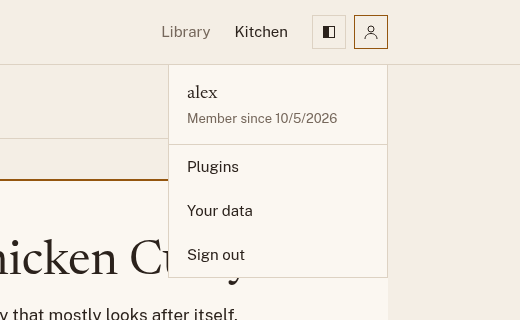
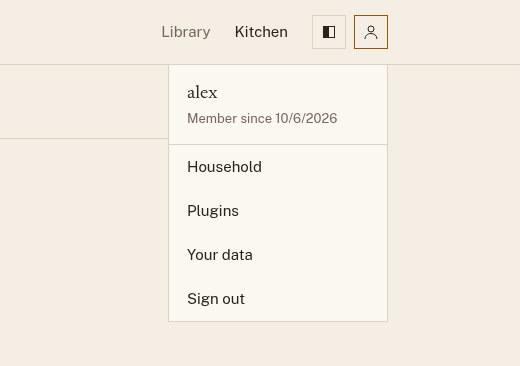
docs: explain households in the guide, and record step 2 in AGENTS.md
A Household page in the user guide covers what is shared, inviting,
joining, and leaving, with a screenshot; the recipe, data, agent, and
getting-started pages and the profile menu screenshot follow. AGENTS.md
records what step 2 delivered, the household package's boundary, the 409
and 410 mappings, and the import rule.

diff --git a/AGENTS.md b/AGENTS.md
@@ -47,9 +47,9 @@ change** — an out-of-date AGENTS.md is worse than none.
 | Sync       | intervals.icu is the activity data source (future). Design for it, don't build it yet. |
 | Library content | Seed file `core/core-recipes/src/main/resources/library/library-seed.json`, loaded by an idempotent startup seeder (`mimos.library.seed-enabled`, default on). Content fixes ship with a restart; never via Flyway migrations. See ADR-0005. |
 | Ingredient catalog | One shared catalog seeded read-only from `core/core-recipes/src/main/resources/library/ingredient-seed.json` (always on, by slug, never deleted), plus each household's own ingredients, private to it and editable (`/api/v1/ingredients`, ADR-0016, ADR-0019). Recipe lines link to either by `catalogSlug` and carry prep in an optional `note`; the form's ingredient name is a search over both and the user's own recipes. A line may instead link one of its owner's own recipes (`recipeId`, never both, never itself or a cycle), counted in `servings` of it (ADR-0018). A recipe's `nutritionSource` is `MANUAL` (typed) or `INGREDIENTS` (calculated when read, so catalog fixes and edits to a linked recipe reach every recipe that uses them). Metric units only: `g`, `kg`, `ml`, `l`, `tsp` (5 ml), `tbsp` (15 ml), or none for pieces, plus `servings` for a recipe link. Library recipes are calculated and link no recipes. See ADR-0015, ADR-0016, ADR-0018. |
-| Households | Every user belongs to exactly one household; a user on their own is a household of one. The household owns recipes, personal ingredients, plans, shopping lists, and plugin opt-ins and pseudonyms; meal logs stay per person. Plan entries name their diners. Membership is Mimos domain data, not Keycloak groups. Being delivered in four steps (ROADMAP step 17); step 1 is in: every profile has a household (`household`, `user_profile.household_id`; a new user gets a household of one with their profile), household-owned tables carry `household_id`, recipes record `created_by_profile_id`, and every plan entry has diners (`meal_plan_entry_diner`; the API adds the caller as the only one). Invites, joining and leaving, diners in the API, and export version 4 are not built yet. See ADR-0019. |
+| Households | Every user belongs to exactly one household; a user on their own is a household of one. The household owns recipes, personal ingredients, plans, shopping lists, and plugin opt-ins and pseudonyms; meal logs stay per person. Plan entries name their diners. Membership is Mimos domain data, not Keycloak groups. Being delivered in four steps (ROADMAP step 17); steps 1 and 2 are in. Every profile has a household (`household`, `user_profile.household_id`; a new user gets a household of one with their profile), household-owned tables carry `household_id`, recipes record `created_by_profile_id` (shown as `createdBy`, "Added by" in the web), and every plan entry has diners (`meal_plan_entry_diner`; the API adds the caller as the only one). Any member creates a single-use invite valid for seven days (`household_invite`, SHA-256 of the token only; the web link is `/app/join/{token}`); joining from a household of one brings its recipes and ingredients and deletes its plans, lists, plugin opt-ins and pseudonyms; joining from a shared household leaves it first; leaving keeps the household's data, removes the leaver as a diner (deleting entries left with none), and unlinks their logs from its recipes. API under `/api/v1/household`; join, leave, and the invite preview are `x-mcp: false`. Web: the Household page (`/app/household`, in the profile menu) and `/app/join/[token]`. Diners in the API and export version 4 are not built yet. See ADR-0019. |
 | Public API | Unauthenticated read-only access to the curated library under `/api/v1/public/**` (SEO pages). Personal recipes never appear there; everything else requires a bearer token. |
-| Account data | Per-user export/import as one versioned JSON document (`GET /api/v1/account/export`, `POST /api/v1/account/import`): domain-shaped, never a table dump; library recipes by slug; recipe links by the linked recipe's id within the document, restored linked-first; import only into an empty account, atomically, through domain validation. Current format: version 3. Format changes bump the version, add an `ExportUpgrader` step and a frozen `export/v<N>.json` test fixture. See ADR-0011, ADR-0018. |
+| Account data | Per-user export/import as one versioned JSON document (`GET /api/v1/account/export`, `POST /api/v1/account/import`): domain-shaped, never a table dump; library recipes by slug; recipe links by the linked recipe's id within the document, restored linked-first; import only into an empty household of one (no recipes, own ingredients, planned meals, list items, or logs, and no other member; 409 otherwise), atomically, through domain validation. Current format: version 3. Format changes bump the version, add an `ExportUpgrader` step and a frozen `export/v<N>.json` test fixture. See ADR-0011, ADR-0018. |
 | Plugins    | HTTP sidecar plugins, pull-only in v1: config registry (`mimos.plugins.*`), manifest at `GET /manifest`, two capabilities (`plan-suggestions` cards, `week-panel` declarative panels with buttons), library-only context, households named by a per-plugin pseudonym (`subject`) the plugin may keep its own data against. See ADR-0006, ADR-0017. Registered means available; each household opts in from the Plugins page (`/app/plugins`, linked from the profile menu; API `/api/v1/me/plugins`), and every plugin starts off. See ADR-0013. |
 | Agent access | MCP server inside `mimos-api` at `/mcp` (Spring AI 2.0.x MCP server starter, stateless Streamable HTTP; Spring AI's model layer excluded). Tools are derived from `contracts/api/openapi.yaml` at startup: every `/api/v1` operation is a tool unless it declares `x-mcp: false`, and a call loops back through the HTTP API with the caller's token. Agents sign in as the public Keycloak client `mimos-agent` (Authorization Code + PKCE), found through Protected Resource Metadata (RFC 9728). See ADR-0014. |
 | Agent harness | `tools/harness` (`@mimos/harness`, TypeScript on Node type stripping) behind a devenv `harness` script; all agent tooling from devenv/nixpkgs; Playwright pinned to nixpkgs' `playwright-driver`; `.mcp.json` committed; debug-only behavior in `deploy/docker/compose.debug.yml`; scenarios run in CI via devenv. Plan and decisions in `docs/harness/`. |
@@ -82,6 +82,15 @@ wire-format contract:
   ingredients, plans, and shopping lists take an opaque `ownerId`, which
   the API sets to the caller's household id; meal logs, recipe creators,
   and plan-entry diners take profile ids.
+- `apps/api` package `household` — membership, invites, and the join
+  and leave rules (ADR-0019). Owns `household_invite` and
+  `user_profile.household_id`, and creates and deletes `household` rows
+  after sign-up (`identity` creates a new user's household of one). It
+  changes what a household owns in other modules only through their
+  public services (`moveAll`, `deleteAll`, `removeDiner`,
+  `unlinkRecipesOf`), never their tables, and runs a join or leave in one
+  transaction that locks the caller's profile row, then the households
+  involved in id order.
 - `apps/api` package `account` — account export/import (ADR-0011): an
   adapter over the core modules' public services, like the controllers.
   It never touches tables, so a migration that keeps the domain's meaning
@@ -240,7 +249,7 @@ is the contract:
 - Security failures (401/403) are RFC 9457 problem-details, as are API errors
   generally. Domain errors map once in `ApiExceptionHandler`:
   `IllegalArgumentException` → 400, `NoSuchElementException` → 404,
-  `ReadOnlyRecipeException` and `ReadOnlyIngredientException` → 403, `AccountNotEmptyException` → 409. It extends Spring's
+  `ReadOnlyRecipeException` and `ReadOnlyIngredientException` → 403, `AccountNotEmptyException` and `MembershipConflictException` → 409, `InviteNoLongerValidException` → 410. It extends Spring's
   `ResponseEntityExceptionHandler`, so Spring MVC's own errors (415, 405,
   unknown-path 404, 406, malformed input) are problem-details too; anything
   unmapped is a 500 problem, logged with its stack trace, its message never
@@ -392,7 +401,7 @@ mimos/
   ranges (`20–25 minutes`) and for an unknown value (`–`). Code comments
   and docs are not covered.
 - **Time/money-free:** no wall-clock dependence in domain logic; clocks and
-  randomness are injected.
+  randomness are injected (`TimeConfig`'s `Clock` and `SecureRandom`).
 - **Commit style:** conventional commits, present tense, scoped when it
   helps (`feat(planning): ...`).
 - **Naming:** product name is **Mimos**; the repo/backend service is

diff --git a/docs/guide/household.md b/docs/guide/household.md
@@ -1,0 +1,76 @@
+# Household
+
+A household is the people who cook together. Everyone in it shares one
+recipe book, one set of meal plans, and one shopping list, while each
+person keeps their own food log. When you sign up you are a household of
+one.
+
+To see yours, open the profile menu at the top right and choose
+**Household**.
+
+![The Household page: who is in it, and an invite link ready to copy](../assets/screenshots/household.png)
+
+## What is shared
+
+| Shared with your household       | Yours alone   |
+| -------------------------------- | ------------- |
+| Recipes, and who added each one  | Your food log |
+| Ingredients you added            |               |
+| Meal plans                       |               |
+| Shopping lists                   |               |
+| Plugins and what they remember   |               |
+
+Everyone in a household is equal. Anyone can add, change, or delete its
+recipes, plan its meals, and tick off its shopping list. A recipe someone
+else added says **Added by** them, in the recipe list and above the recipe.
+
+## Invite someone
+
+1. On the Household page, under **Invite someone**, choose **Create invite
+   link**.
+2. Choose **Copy link** and send the link to the person you want to share
+   with, in a message or an email.
+
+The link works once, for seven days; the page says until when. Anyone in
+the household can create one. If it expires or someone else uses it,
+create another.
+
+## Join a household
+
+Open the invite link you were sent. If you are not signed in, sign in, or
+register if you are new; Mimos brings you back to the invite.
+
+The page names whose household it is and says what joining changes for
+you. Choose **Join household** to join, or **Not now** to leave things as
+they are.
+
+What joining does depends on whether you share a household already:
+
+- **On your own:** your recipes and the ingredients you added come with you
+  into the household. Your meal plans, shopping lists, and plugin settings
+  are deleted, and you use the household's instead.
+- **Already sharing a household:** you leave it first. Its recipes,
+  ingredients, meal plans, and shopping lists stay with it, including the
+  ones you added.
+
+Either way, your food log stays yours. Nobody else in the household sees
+it.
+
+## Leave a household
+
+On the Household page, choose **Leave household**. Mimos says what stays
+and what goes, and asks you to confirm.
+
+When you leave:
+
+- The household keeps its recipes, ingredients, meal plans, and shopping
+  lists, including the ones you added. To keep a copy of the recipes,
+  [export your data](your-data.md) first.
+- You stop eating the meals planned there. A meal only you were eating is
+  removed from the plan.
+- You keep your food log. Meals you logged from the household's recipes
+  keep their calories and macros but no longer link to the recipe.
+- You start again as a household of one.
+
+Nobody can remove someone else from a household. If you are the only one
+in your household, there is nothing to leave.

diff --git a/docs/guide/recipes.md b/docs/guide/recipes.md
@@ -2,7 +2,9 @@
 
 Open **Recipes** to see your recipe book. It has two tabs:
 
-- **My recipes**: the recipes you've written. Only you can see them.
+- **My recipes**: the recipes you and your [household](household.md) have
+  written. Only your household can see them, and a recipe someone else
+  added says **Added by** them.
 - **Library**: free recipes curated for everyone on this Mimos. Anyone can
   read them, signed in or not.
 
@@ -36,8 +38,8 @@ clear when you leave it.
    choose **pieces** as the unit for things you count, like "2 eggs".
 4. If an ingredient isn't in the list, choose **+ Add "…" as a new
    ingredient** and copy its calories, protein, carbs, and fat from the
-   label. It's saved as your own: only you see it, and you can use it in
-   any of your recipes. Under each ingredient, Mimos says what it matched;
+   label. It's saved as your household's own: only your household sees
+   it, and you can use it in any of your recipes. Under each ingredient, Mimos says what it matched;
    choose **Don't count it** if the match is wrong.
 5. Under **Nutrition per serving**, leave **Calculate from ingredients**
    chosen to have Mimos work it out, or choose **Enter it myself** to type

diff --git a/docs/guide/agents.md b/docs/guide/agents.md
@@ -61,16 +61,19 @@ recipes and in the library.
 
 An agent signed in to your Mimos can do what you can do in the app:
 
-- Read, search, write, change, and delete your own recipes.
+- Read, search, write, change, and delete your household's recipes.
 - Read and search the library.
 - Plan meals, change servings, and remove planned meals.
 - Generate your shopping list and tick items off.
 - Log meals and read your daily totals.
 - Turn plugins on or off and read their suggestions.
+- See who is in your household and create an invite link.
 
 It can't:
 
-- See or change anyone else's recipes, plans, or log.
+- See or change another household's recipes, plans, or shopping lists, or
+  anyone else's log.
+- Join or leave a household for you. You do that yourself in the app.
 - Change library recipes.
 - Export or import your whole account. Use [Your data](your-data.md) for
   that.

diff --git a/docs/guide/your-data.md b/docs/guide/your-data.md
@@ -22,9 +22,10 @@ one.
 1. Under **Import**, choose the export file.
 2. Choose **Import**. Mimos reports what it restored, and any warnings.
 
-Import only works into an empty account: one with no recipes, plans,
-shopping lists, or logged meals yet. That way nothing is ever overwritten
-or doubled up. If you've already started using the new account, ask
+Import only works into an empty account: one with no recipes, ingredients
+of your own, plans, shopping lists, or logged meals yet. That way nothing
+is ever overwritten or doubled up. It also needs you to be on your own: if
+you share a [household](household.md), leave it first. If you've already started using the new account, ask
 whoever runs it to give you a fresh one.
 
 Plans and logs that use library recipes come across as long as the new

diff --git a/docs/guide/index.md b/docs/guide/index.md
@@ -45,8 +45,10 @@ The row of links under the header takes you to each part of Mimos:
 
 The square with a person icon, at the top right, opens your profile menu:
 
-![The profile menu: your name, Plugins, Your data, and Sign out](../assets/screenshots/profile-menu.png){ width="420" }
+![The profile menu: your name, Household, Plugins, Your data, and Sign out](../assets/screenshots/profile-menu.png){ width="420" }
 
+- **Household** shows who you share recipes, plans, and shopping with, and
+  invites someone new. See [Household](household.md).
 - **Plugins** turns add-ons on and off. See [Plugins](plugins.md).
 - **Your data** downloads everything you've added, or restores it. See
   [Your data](your-data.md).
